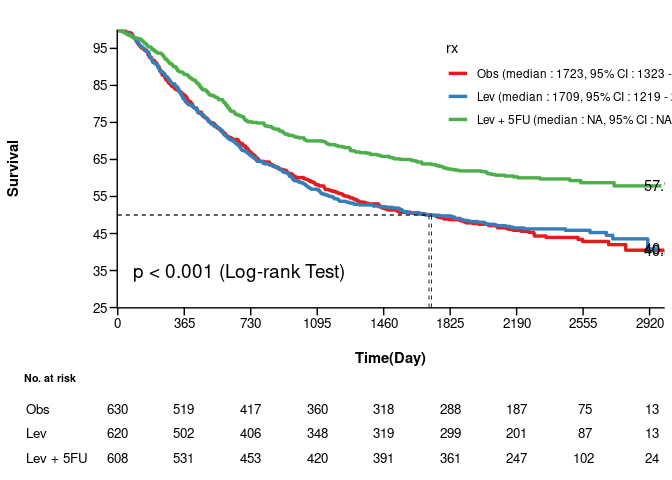
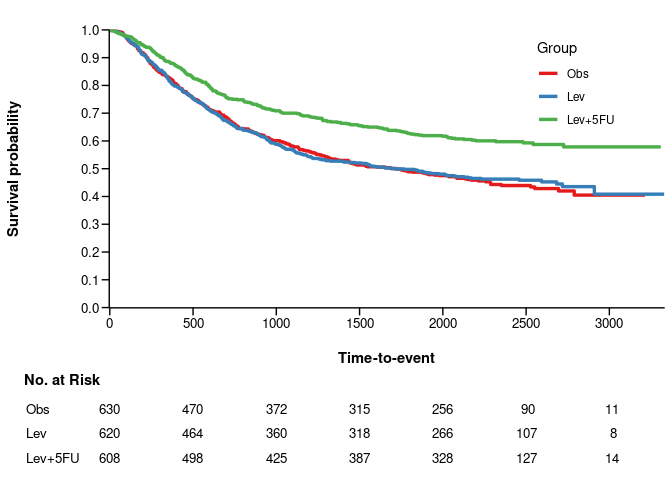
Fix DESCRIPTION BugReports link and add surv.scale default example (0.6.5)
* DESCRIPTION: BugReports pointed to the jstable repo; corrected to jskm
  so pkgdown "Browse source code" / GitHub links resolve correctly.
* README / vignette: add a surv.scale = "default" example so the
  proportion-scale y-axis (0.1, 0.2, ...) is shown alongside percent.
  No change to surv.scale plotting behaviour.
* Bump version to 0.6.5, NEWS entry, regenerate README figures.

diff --git a/NEWS.md b/NEWS.md
@@ -1,3 +1,9 @@
+# jskm 0.6.5
+
+* Fix: `BugReports` in DESCRIPTION pointed to the `jstable` repository; corrected to `jskm` so the pkgdown "Browse source code" / GitHub links resolve to the correct repository.
+
+* Docs: add a `surv.scale = "default"` example to the README and vignette so the proportion-scale y-axis (`0.1`, `0.2`, `0.3`) is shown alongside the percent scale. No change to plotting behaviour: `surv.scale = "default"` keeps proportions and `surv.scale = "percent"` shows `0`–`100` with a `(%)` axis title; the argument default remains `c("percent", "default")`.
+
 # jskm 0.6.4
 
 * Fix: NEJM in-figure inset y-axis was floating above the panel bottom because the inset's `scale_y_continuous` replaced the main scale and reverted to ggplot's default ~5% expansion. The inset now uses `expand = expansion(mult = c(0.001, 0.001))`, so the lower y limit (e.g. 0) sits flush at the bottom edge of the inset panel.

diff --git a/README.md b/README.md
@@ -50,6 +50,12 @@ jskm(fit)
 ![](man/figures/README-unnamed-chunk-1-1.png)<!-- -->
 
 ``` r
+jskm(fit, surv.scale = "default")
+```
+
+![](man/figures/README-unnamed-chunk-1-2.png)<!-- -->
+
+``` r
 jskm(fit,
   table = T, pval = T, med = T, label.nrisk = "No. at risk", size.label.nrisk = 8,
   xlabs = "Time(Day)", ylabs = "Survival", ystratalabs = c("Obs", "Lev", "Lev + 5FU"), ystrataname = "rx",
@@ -57,7 +63,7 @@ jskm(fit,
 )
 ```
 
-![](man/figures/README-unnamed-chunk-1-2.png)<!-- -->
+![](man/figures/README-unnamed-chunk-1-3.png)<!-- -->
 
 ### Cumulative hazard: 1- Survival probability
 
